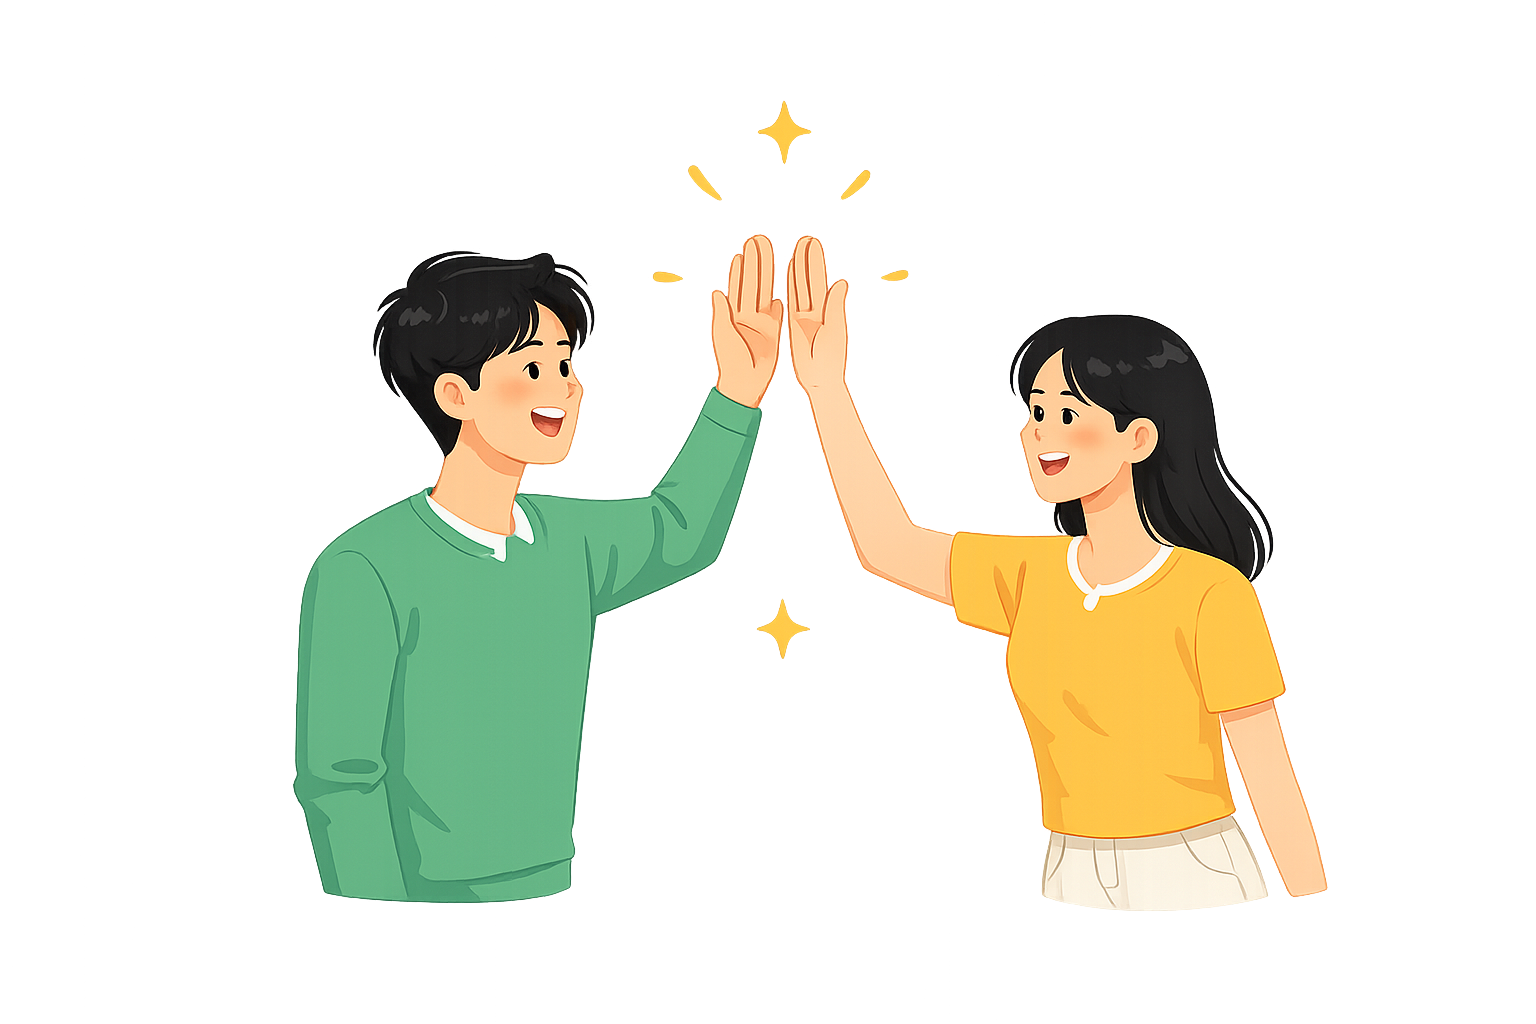
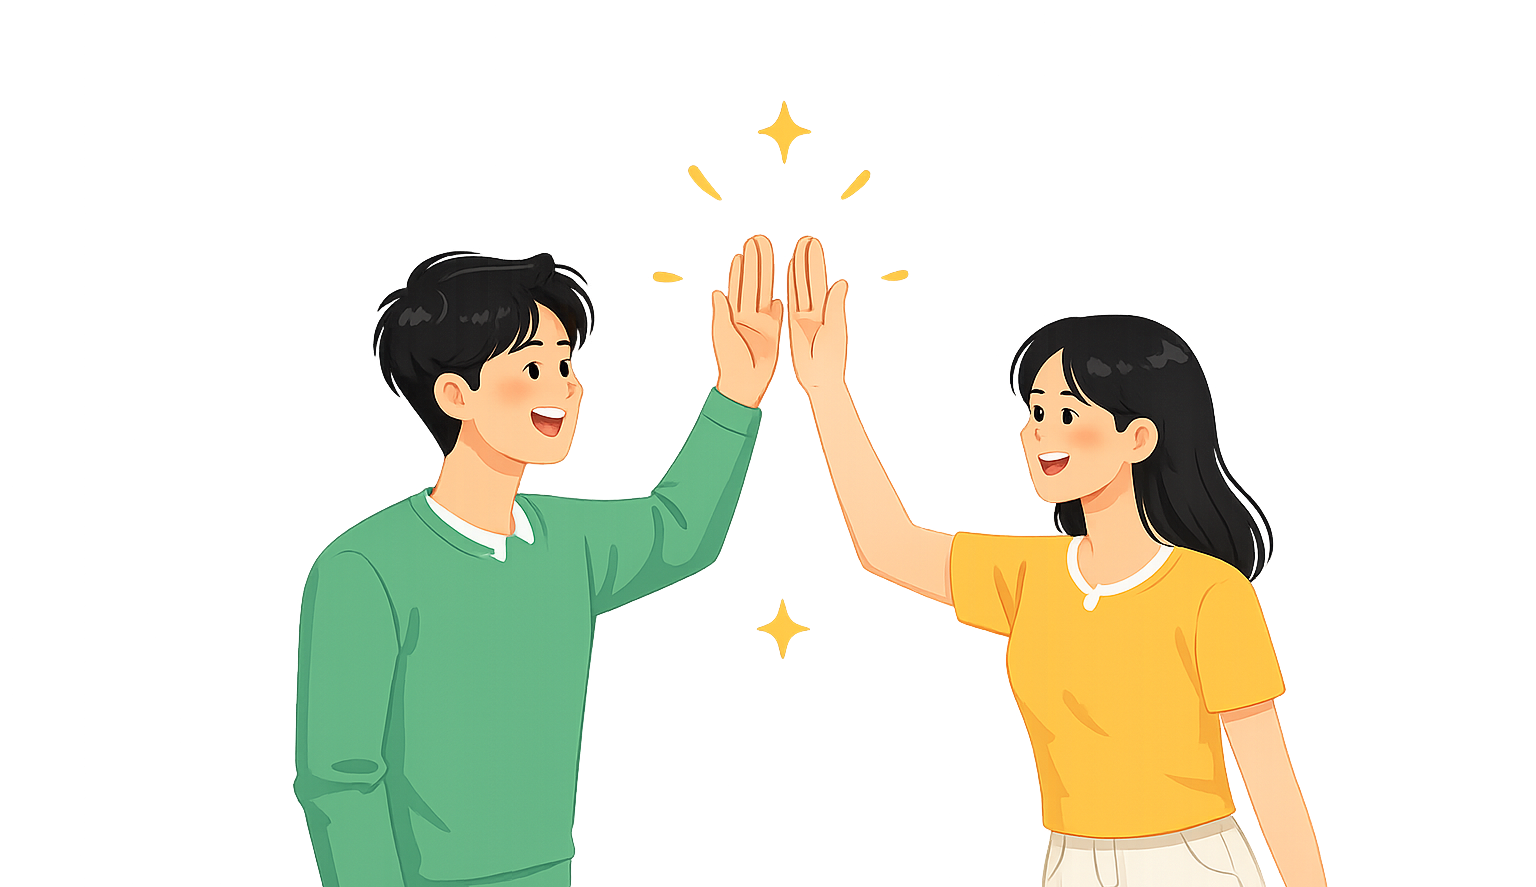
Refresh home join illustration

diff --git a/src/app/(site)/page.tsx b/src/app/(site)/page.tsx
@@ -525,11 +525,9 @@ export default async function HomePage() {
 
       <section className="home-join-banner" aria-labelledby="home-join-banner-title">
         <div className="home-join-banner-illustration" aria-hidden="true">
-          <Image
-            src="/join-card.png"
+          <img
+            src="/join-card.png?v=20260424-join"
             alt=""
-            width={420}
-            height={280}
             className="home-join-banner-illustration-image"
           />
         </div>
